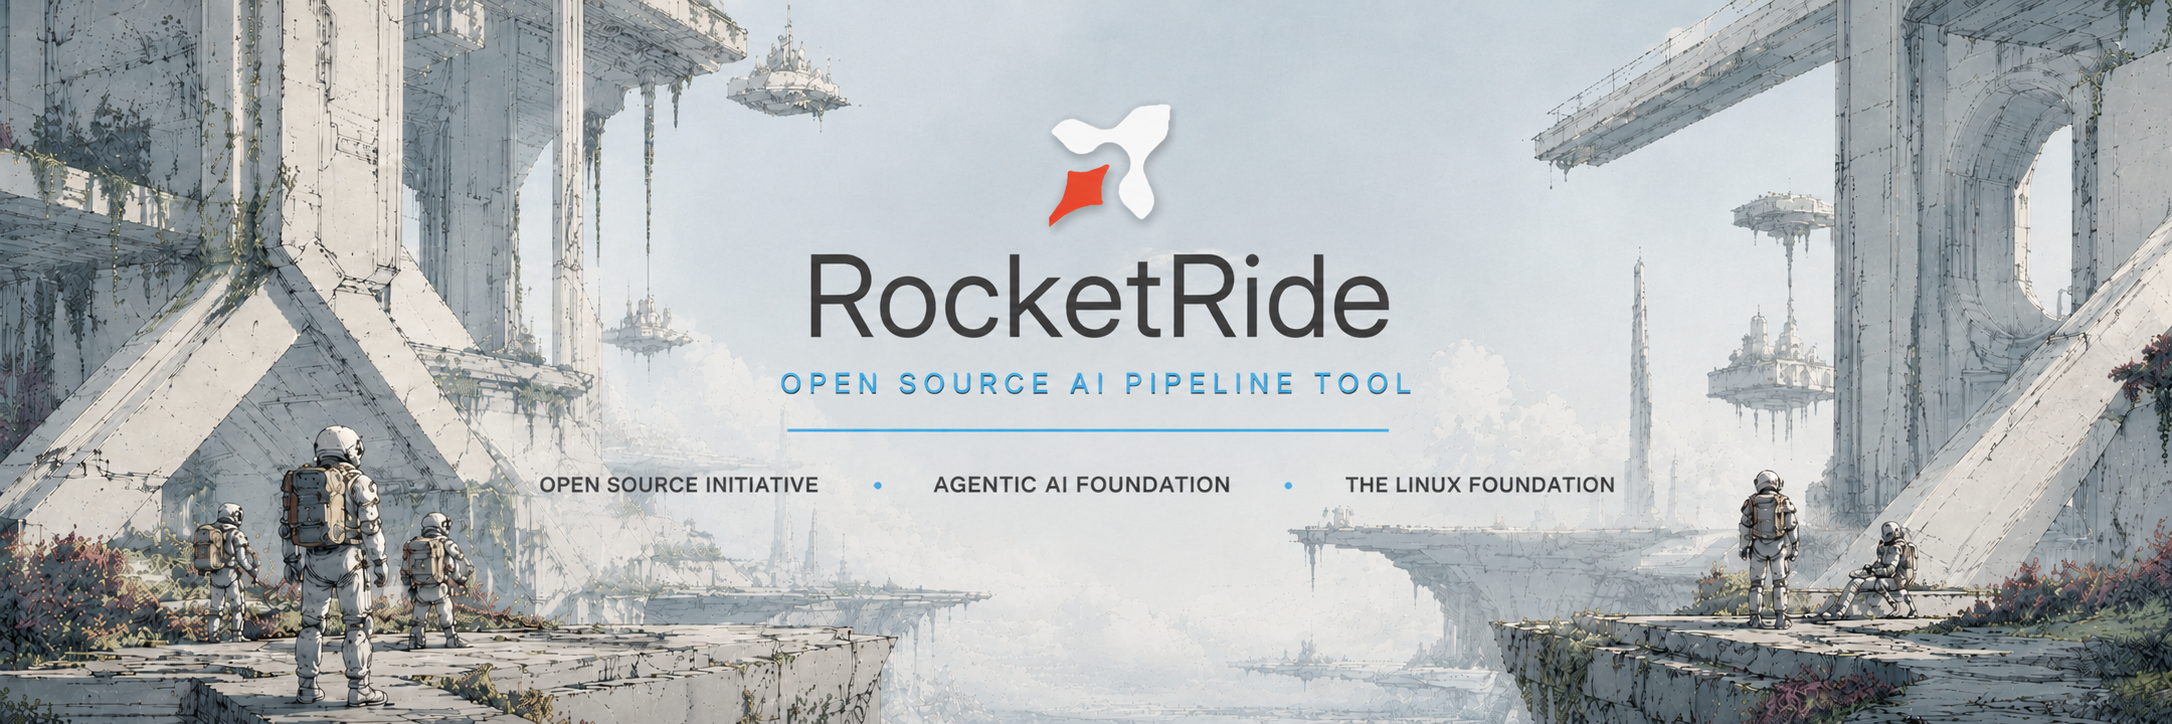
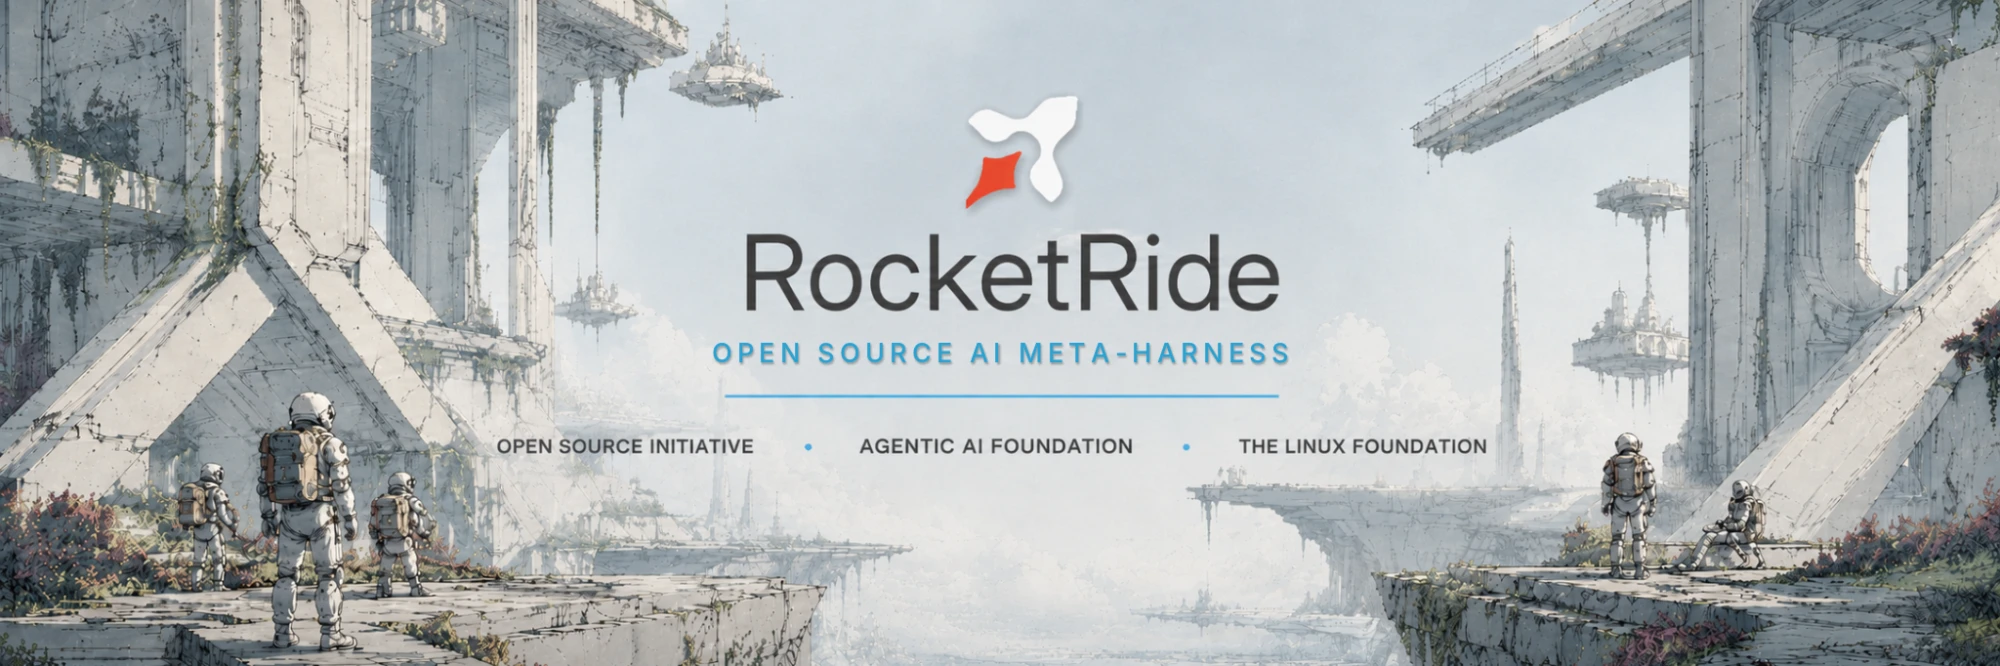
docs: update README description, commands and package descriptions for coding agents (#3201)
* docs: add a start page for coding agents and list it first in llms.txt

Adds a quickstart page for a coding agent or the person driving one: run the
engine locally in Docker, check it is up, use it from the CLI, SDK or MCP, and
find the machine-readable docs. The page is in the Get Started sidebar and
llms.txt lists it first under a Start here heading.

* docs: fix README counts and package metadata, and point coding agents to the start page

Updates the node and vector database counts and the cloud environment variable
name in the README, notes that the Docker image is amd64 only and how to run it
on Apple Silicon, and adds a README line for coding agents that links to the
start page and llms.txt. Package descriptions, keywords and project URLs are
filled in for the VS Code extension and the client packages, and the redundant
Other category is dropped.

* docs: say which engine versions need ROCKETRIDE_URI for local MCP tool calls

The two sentences about tool calls reaching RocketRide Cloud now name the
engine image they apply to (3.6.0 and earlier), so they stay true when the
default changes.

* docs: bind README engine port to localhost and fix stdio package homepage

Publish the engine port on 127.0.0.1 and point the stdio package homepage to its own docs page.

* docs: add send-and-read step and container, npx and env notes to coding agents page
[…]

diff --git a/apps/vscode/src/providers/views/welcome/WelcomeWebview.tsx b/apps/vscode/src/providers/views/welcome/WelcomeWebview.tsx
@@ -461,7 +461,7 @@ export const Welcome: React.FC = () => {
 					</div>
 
 					<ul style={{ listStyle: 'none', width: '100%', margin: '0 0 30px', padding: 0 }}>
-						{['Visual pipeline editor', 'High-performance C++ engine', '100+ pipeline nodes with AI/ML', 'Multi-agent workflows', 'Tool and model agnostic', 'TypeScript, Python & MCP SDKs'].map((feat) => (
+						{['Visual pipeline editor', 'High-performance C++ engine', 'Pipeline nodes for AI/ML', 'Multi-agent workflows', 'Tool and model agnostic', 'TypeScript, Python & MCP SDKs'].map((feat) => (
 							<li key={feat} style={styles.featureItem}>
 								<span style={styles.featureIcon}>&#9670;</span> {feat}
 							</li>

diff --git a/README.md b/README.md
@@ -1,17 +1,17 @@
 <div align="center">
 
 <a href="https://rocketride.org">
-  <img src="docs/public/assets/poster.png" alt="RocketRide: Open Source AI Pipeline Tool" width="100%">
+  <img src="docs/public/assets/poster.png" alt="RocketRide: Open Source AI Meta-Harness" width="100%">
 </a>
 
 <p>
-  <strong>RocketRide is the open source AIDE: the AI Development Environment.</strong><br/>
-  Build, deploy and harness production-ready AI solutions at light speed, all within your IDE or using the CLI in your terminal.
+  <strong>RocketRide is an open source AI meta-harness with the only enterprise-grade runtime built on C++.</strong><br/>
+  Build, test and publish durable agents that scale in production.
 </p>
 
 <p>
-  <a href="https://trendshift.io/repositories/37651?utm_source=trendshift-badge&amp;utm_medium=badge&amp;utm_campaign=badge-trendshift-37651" target="_blank" rel="noopener noreferrer"><img src="https://trendshift.io/api/badge/trendshift/repositories/37651/daily" alt="rocketride-org/rocketride-server: Repository Of The Day on Trendshift" width="250" height="55"/></a>&nbsp;&nbsp;
-  <a href="https://trendshift.io/repositories/37651?utm_source=trendshift-badge&amp;utm_medium=badge&amp;utm_campaign=badge-trendshift-37651" target="_blank" rel="noopener noreferrer"><img src="https://trendshift.io/api/badge/trendshift/repositories/37651/daily?language=C%2B%2B" alt="rocketride-org/rocketride-server: C++ Repository Of The Day on Trendshift" width="250" height="55"/></a>
+  <a href="https://trendshift.io/repositories/37651?utm_source=trendshift-badge&amp;utm_medium=badge&amp;utm_campaign=badge-trendshift-37651" target="_blank" rel="noopener noreferrer"><img src="https://trendshift.io/api/badge/trendshift/repositories/37651/daily?language=C%2B%2B" alt="rocketride-org/rocketride-server: C++ Repository Of The Day on Trendshift" width="250" height="55"/></a>&nbsp;&nbsp;
+  <a href="https://trendshift.io/repositories/37651?utm_source=trendshift-badge&amp;utm_medium=badge&amp;utm_campaign=badge-trendshift-37651" target="_blank" rel="noopener noreferrer"><img src="https://trendshift.io/api/badge/trendshift/repositories/37651/daily" alt="rocketride-org/rocketride-server: Repository Of The Day on Trendshift" width="250" height="55"/></a>
 </p>
 
 <p>
@@ -21,11 +21,11 @@
 </p>
 
 <p>
- Your code editor just became the AIDE. RocketRide turns the classic IDE you already use into a full <strong>AI Development Environment</strong>: one place to compose, debug, observe, and deploy AI runtimes using any model, any tool, any framework, with zero vendor lock-in. Equipped with deep observability and backed by a battle-tested, high-throughput C++ engine, what you build is production-ready the moment it runs. <strong>It's the harness for everything behind your AI applications, not just the agents, but the whole stack beneath them.</strong>
+ RocketRide gives you one place to compose, debug, observe, and deploy AI runtimes from the tools you already use: your IDE, your terminal or your coding agent. Use any model, any tool, any framework, with zero vendor lock-in. Equipped with deep observability and backed by a battle-tested, high-throughput C++ engine, what you build is production-ready the moment it runs. <strong>It harnesses the whole stack behind your AI applications, not only the agents.</strong>
 </p>
 
 <p>
- Under the hood, RocketRide is an open source data pipeline builder and runtime built for AI and ML workloads. With 100+ pipeline nodes spanning 15+ LLM providers, 9 vector databases, OCR, NER, and more, pipelines are defined as portable JSON, built visually in VS Code, and executed by a multithreaded C++ runtime. From real-time data processing to multimodal AI search, RocketRide runs entirely on your own infrastructure.
+ Under the hood, RocketRide is an open source meta-harness spanning the full AI Development Lifecycle (AIDLC): build, stage, test, release and maintain. With a rapidly growing node library including agents, models, vector/graph/SQL databases, OCR, tools, data stores, NER and more, it coordinates across agent harnesses while running on an enterprise-grade runtime. Self-host on your own infrastructure or deploy to RocketRide Cloud.
 </p>
 
 <p>
@@ -34,6 +34,7 @@
   <a href="https://pypi.org/project/rocketride/">Python SDK</a> |
   <a href="https://www.npmjs.com/package/rocketride">TypeScript SDK</a> |
   <a href="https://docs.rocketride.org/connect/mcp/http">MCP Server</a> |
+  For coding agents: <a href="https://docs.rocketride.org/quickstart/coding-agents/">start page</a>, <a href="https://docs.rocketride.org/llms.txt">llms.txt</a> |
   <a href="https://marketplace.visualstudio.com/items?itemName=RocketRide.rocketride">VS Code Marketplace</a> |
   <a href="https://open-vsx.org/extension/RocketRide/rocketride">Open VSX Registry</a>
 </p>
@@ -76,7 +77,7 @@ _Drop pipelines into any Python or TypeScript app with a few lines of code, no i
 | :-------------------------------- | :----------------------------------------------------------------------------------------------------------------------------------------------------------------------------------------------------------------------------------- |
 | **Rocket Builder**                | Drag, connect, and configure nodes visually, no boilerplate. Real-time observability tracks token usage, LLM calls, latency, and execution. Pipelines are portable JSON, version-controllable, shareable, and runnable anywhere. |
 | **High-Performance C++ Runtime**  | Native multithreading purpose-built for the throughput demands of AI and data workloads. No bottlenecks, no compromises for production scale.                                                                                        |
-| **100+ Pipeline Nodes**           | 15+ LLM providers, 9 vector databases, OCR, NER, PII anonymization, chunking strategies, embedding models, and more. All nodes are Python-extensible, build and publish your own.                                                    |
+| **Pipeline Nodes**                | LLM providers, vector databases, OCR, NER, PII anonymization, chunking strategies, embedding models, and more. All nodes are Python-extensible, build and publish your own.                                                          |
 | **Multi-Agent Workflows**         | Built-in CrewAI and LangChain support. Chain agents, share memory across pipeline runs, and manage multi-step reasoning at scale.                                                                                                    |
 | **Coding Agent Ready**            | RocketRide auto-detects your coding agent: Claude, Cursor, and more. Build, modify, and deploy pipelines through natural language.                                                                                                  |
 | **TypeScript, Python & MCP SDKs** | Integrate pipelines into native apps, expose them as callable tools for AI assistants, or build programmatic workflows into your existing codebase.                                                                                  |
@@ -186,9 +187,13 @@ _Whether you build web apps, integrate APIs, or run backend services, you alread
 
      ```bash
      docker pull ghcr.io/rocketride-org/rocketride-engine:latest
-     docker create --name rocketride-engine -p 5565:5565 ghcr.io/rocketride-org/rocketride-engine:latest
+     docker create --name rocketride-engine -p 127.0.0.1:5565:5565 ghcr.io/rocketride-org/rocketride-engine:latest
      docker start rocketride-engine
      ```
+
+     The image is amd64 only. On Apple Silicon, add `--platform linux/amd64` to both `docker pull` and `docker create`.
+
+     Clients need a non-empty key, and an engine started without one accepts any value (for example `export ROCKETRIDE_APIKEY=rr_local`). To use the engine's built-in MCP server, start it with `-e RR_APIKEY=rr_...` (the engine's own key; a client sends the same value as `ROCKETRIDE_APIKEY`); the [coding-agents start page](https://docs.rocketride.org/quickstart/coding-agents/) has the full MCP setup.
 
    - **Local Deployment** - Download your preferred runtime as a standalone process from the **Deploy** page in the `Connection Manager`.
 
@@ -290,7 +295,7 @@ Connecting takes two lines. Same portable pipeline JSON, now hosted for you:
 
 ```bash
 ROCKETRIDE_URI=https://api.rocketride.ai
-ROCKETRIDE_AUTH=your-api-token
+ROCKETRIDE_APIKEY=your-api-key
 ```
 
 <p align="center">
@@ -323,10 +328,11 @@ Docker, on-premises, or a local process in your IDE. Full control, full data res
 
 <br/>
 
-Point a client at your local engine in one line:
+Point a client at your local engine:
 
 ```bash
 ROCKETRIDE_URI=ws://localhost:5565
+ROCKETRIDE_APIKEY=rr_local
 ```
 
 <p align="center">

diff --git a/docs/public/product/quickstart/coding-agents.md b/docs/public/product/quickstart/coding-agents.md
@@ -10,7 +10,7 @@ This page is the shortest path for a coding agent (or the person driving one) to
 
 ## What RocketRide is
 
-RocketRide is the leading AI meta-harness with the only enterprise-grade runtime built on C++. Designed for professional software developers and technical builders, whether solo or teams or organizations, to enable them to easily build, stage, test, publish and maintain agents and AI-enabled applications that scale in production. Leverage directly from an IDE with the VS Code extension, from the terminal with the CLI, from code with the Python or TypeScript SDK, or dynamically using the MCP server.
+RocketRide is an open source AI meta-harness with the only enterprise-grade runtime built on C++. Designed for professional software developers and technical builders, whether solo or teams or organizations, to enable them to easily build, stage, test, publish and maintain agents and AI-enabled applications that scale in production. Leverage directly from an IDE with the VS Code extension, from the terminal with the CLI, from code with the Python or TypeScript SDK, or dynamically using the MCP server.
 
 Open source, MIT licensed. Nodes cover LLM providers, vector stores, OCR, NER, PII anonymization and more.
 
@@ -54,12 +54,12 @@ It answers 200 with `{"status":"OK","data":{"version":"..."}}` and needs no key.
 
 ## Use it from the CLI or SDK
 
-Install the Python package (Python 3.10 or newer) in a virtual environment. It installs the `rocketride` command while the environment is active. The first line stops with a clear message if `python3` is too old (the `python3` that ships with macOS is 3.9); if it stops, use a newer interpreter in both places, for example `python3.12`:
+Install the Python package (Python 3.10 or newer) in a virtual environment. It installs the `rocketride` command while the environment is active. The commands are joined with `&&`, so the block stops at the first line with a clear message if `python3` is too old (the `python3` that ships with macOS is 3.9); if it stops, use a newer interpreter in both places, for example `python3.12`:
 
 ```bash
-python3 -c "import sys; sys.exit(None if sys.version_info >= (3, 10) else 'RocketRide needs Python 3.10 or newer')"
-python3 -m venv .venv
-source .venv/bin/activate
+python3 -c "import sys; sys.exit(None if sys.version_info >= (3, 10) else 'RocketRide needs Python 3.10 or newer')" &&
+python3 -m venv .venv &&
+source .venv/bin/activate &&
 pip install rocketride
 ```
 

diff --git a/docs/public/python/README.md b/docs/public/python/README.md
@@ -51,12 +51,11 @@ schedules, server-side file storage, and run-log replay.
 
 ## What is RocketRide?
 
-[RocketRide](https://rocketride.org) is an open-source, developer-native AI pipeline
-platform: build, debug, and deploy production AI workflows without leaving your IDE,
-on a visual canvas or code-first. 140+ ready-to-use nodes (15+ LLM providers, 10+
-vector stores, OCR, NER, PII anonymization) run on a high-performance C++ engine,
-deployable anywhere, MIT licensed. You build your `.pipe` — and run it against the
-fastest AI runtime available.
+[RocketRide](https://rocketride.org) is an open source AI meta-harness with the only
+enterprise-grade runtime built on C++. Build, test and publish durable agents that
+scale in production. It spans the full AI Development Lifecycle (AIDLC): build,
+stage, test, release and maintain. Its rapidly growing node library includes agents,
+models, vector/graph/SQL databases, OCR, tools, data stores, NER and more. MIT licensed. Self-host on your own infrastructure or deploy to RocketRide Cloud.
 
 ## Configuration
 

diff --git a/docs/public/typescript/README.md b/docs/public/typescript/README.md
@@ -49,12 +49,11 @@ schedules, server-side file storage, and run-log replay.
 
 ## What is RocketRide?
 
-[RocketRide](https://rocketride.org) is an open-source, developer-native AI pipeline
-platform: build, debug, and deploy production AI workflows without leaving your IDE,
-on a visual canvas or code-first. 140+ ready-to-use nodes (15+ LLM providers, 10+
-vector stores, OCR, NER, PII anonymization) run on a high-performance C++ engine,
-deployable anywhere, MIT licensed. You build your `.pipe` — and run it against the
-fastest AI runtime available.
+[RocketRide](https://rocketride.org) is an open source AI meta-harness with the only
+enterprise-grade runtime built on C++. Build, test and publish durable agents that
+scale in production. It spans the full AI Development Lifecycle (AIDLC): build,
+stage, test, release and maintain. Its rapidly growing node library includes agents,
+models, vector/graph/SQL databases, OCR, tools, data stores, NER and more. MIT licensed. Self-host on your own infrastructure or deploy to RocketRide Cloud.
 
 ## Configuration
 

diff --git a/packages/client-python/README.md b/packages/client-python/README.md
@@ -53,12 +53,11 @@ schedules, server-side file storage, and run-log replay.
 
 ## What is RocketRide?
 
-[RocketRide](https://rocketride.org) is an open-source, developer-native AI pipeline
-platform: build, debug, and deploy production AI workflows without leaving your IDE,
-on a visual canvas or code-first. 140+ ready-to-use nodes (15+ LLM providers, 10+
-vector stores, OCR, NER, PII anonymization) run on a high-performance C++ engine,
-deployable anywhere, MIT licensed. You build your `.pipe` — and run it against the
-fastest AI runtime available.
+[RocketRide](https://rocketride.org) is an open source AI meta-harness with the only
+enterprise-grade runtime built on C++. Build, test and publish durable agents that
+scale in production. It spans the full AI Development Lifecycle (AIDLC): build,
+stage, test, release and maintain. Its rapidly growing node library includes agents,
+models, vector/graph/SQL databases, OCR, tools, data stores, NER and more. MIT licensed. Self-host on your own infrastructure or deploy to RocketRide Cloud.
 
 ## Configuration
 

diff --git a/packages/client-typescript/README.md b/packages/client-typescript/README.md
@@ -51,12 +51,11 @@ schedules, server-side file storage, and run-log replay.
 
 ## What is RocketRide?
 
-[RocketRide](https://rocketride.org) is an open-source, developer-native AI pipeline
-platform: build, debug, and deploy production AI workflows without leaving your IDE,
-on a visual canvas or code-first. 140+ ready-to-use nodes (15+ LLM providers, 10+
-vector stores, OCR, NER, PII anonymization) run on a high-performance C++ engine,
-deployable anywhere, MIT licensed. You build your `.pipe` — and run it against the
-fastest AI runtime available.
+[RocketRide](https://rocketride.org) is an open source AI meta-harness with the only
+enterprise-grade runtime built on C++. Build, test and publish durable agents that
+scale in production. It spans the full AI Development Lifecycle (AIDLC): build,
+stage, test, release and maintain. Its rapidly growing node library includes agents,
+models, vector/graph/SQL databases, OCR, tools, data stores, NER and more. MIT licensed. Self-host on your own infrastructure or deploy to RocketRide Cloud.
 
 ## Configuration
 

diff --git a/docs/docusaurus/apps/vscode/index.md b/docs/docusaurus/apps/vscode/index.md
@@ -35,13 +35,12 @@ sidebar_position: 1
 
 ## What is RocketRide?
 
-[RocketRide](https://rocketride.org) is an open-source, developer-native AI pipeline platform.
-It lets you build, debug, and deploy production AI workflows without leaving your IDE -
-using a visual drag-and-drop canvas or code-first with TypeScript and Python SDKs.
+[RocketRide](https://rocketride.org) is an open source AI meta-harness with the only enterprise-grade runtime built on C++.
+Build, test and publish durable agents that scale in production.
 
 You build your `.pipe` - and you run it against the fastest AI runtime available.
 
-- **100+ ready-to-use nodes** - 15+ LLM providers, 9 vector databases, OCR, NER, PII anonymization, and more
+- **Ready-to-use nodes** - LLM providers, vector databases, OCR, NER, PII anonymization, and more
 - **High-performance C++ engine** - production-grade speed and reliability
 - **Deploy anywhere** - locally, on-premises, or self-hosted with Docker
 - **MIT licensed** - fully open-source, OSI-compliant

diff --git a/apps/vscode/README.md b/apps/vscode/README.md
@@ -29,13 +29,12 @@
 
 ## What is RocketRide?
 
-[RocketRide](https://rocketride.org) is an open-source, developer-native AI pipeline platform.
-It lets you build, debug, and deploy production AI workflows without leaving your IDE -
-using a visual drag-and-drop canvas or code-first with TypeScript and Python SDKs.
+[RocketRide](https://rocketride.org) is an open source AI meta-harness with the only enterprise-grade runtime built on C++.
+Build, test and publish durable agents that scale in production.
 
 You build your `.pipe` - and you run it against the fastest AI runtime available.
 
-- **100+ ready-to-use nodes** - 15+ LLM providers, 9 vector databases, OCR, NER, PII anonymization, and more
+- **Ready-to-use nodes** - LLM providers, vector databases, OCR, NER, PII anonymization, and more
 - **High-performance C++ engine** - production-grade speed and reliability
 - **Deploy anywhere** - locally, on-premises, or self-hosted with Docker
 - **MIT licensed** - fully open-source, OSI-compliant

diff --git a/docs/public/mcp/stdio/README.md b/docs/public/mcp/stdio/README.md
@@ -77,11 +77,10 @@ Running pipelines are discovered automatically - start a pipeline in VS Code or 
 
 ## What is RocketRide?
 
-[RocketRide](https://rocketride.org) is an open-source, developer-native AI pipeline platform.
-It lets you build, debug, and deploy production AI workflows without leaving your IDE --
-using a visual drag-and-drop canvas or code-first with TypeScript and Python SDKs.
+[RocketRide](https://rocketride.org) is an open source AI meta-harness with the only enterprise-grade runtime built on C++.
+Build, test and publish durable agents that scale in production.
 
-- **100+ ready-to-use nodes** - 15+ LLM providers, 9 vector databases, OCR, NER, PII anonymization, and more
+- **Ready-to-use nodes** - LLM providers, vector databases, OCR, NER, PII anonymization, and more
 - **High-performance C++ engine** - production-grade speed and reliability
 - **Deploy anywhere** - locally, on-premises, or self-hosted with Docker
 - **MIT licensed** - fully open-source, OSI-compliant

diff --git a/packages/client-mcp/README.md b/packages/client-mcp/README.md
@@ -79,11 +79,10 @@ Running pipelines are discovered automatically - start a pipeline in VS Code or 
 
 ## What is RocketRide?
 
-[RocketRide](https://rocketride.org) is an open-source, developer-native AI pipeline platform.
-It lets you build, debug, and deploy production AI workflows without leaving your IDE --
-using a visual drag-and-drop canvas or code-first with TypeScript and Python SDKs.
+[RocketRide](https://rocketride.org) is an open source AI meta-harness with the only enterprise-grade runtime built on C++.
+Build, test and publish durable agents that scale in production.
 
-- **100+ ready-to-use nodes** - 15+ LLM providers, 9 vector databases, OCR, NER, PII anonymization, and more
+- **Ready-to-use nodes** - LLM providers, vector databases, OCR, NER, PII anonymization, and more
 - **High-performance C++ engine** - production-grade speed and reliability
 - **Deploy anywhere** - locally, on-premises, or self-hosted with Docker
 - **MIT licensed** - fully open-source, OSI-compliant

diff --git a/docs/agents/context/ROCKETRIDE_README.md b/docs/agents/context/ROCKETRIDE_README.md
@@ -8,8 +8,8 @@ three layers:
 - One or more **pipelines** — the intelligence: portable `.pipe` JSON files that
   wire pipeline components (parsers, LLMs, vector stores, agents, tools) into
   executable dataflows on a RocketRide server.
-- **Pipeline components (nodes)** — the 150+ capabilities pipelines compose:
-  13+ LLM providers, vector/graph/relational stores, OCR, transcription,
+- **Pipeline components (nodes)** — the capabilities pipelines compose:
+  LLM providers, vector/graph/relational stores, OCR, transcription,
   vision, PII handling, agents, and a large tool ecosystem.
 
 You can build any layer alone — a script driving a pipeline is a complete
